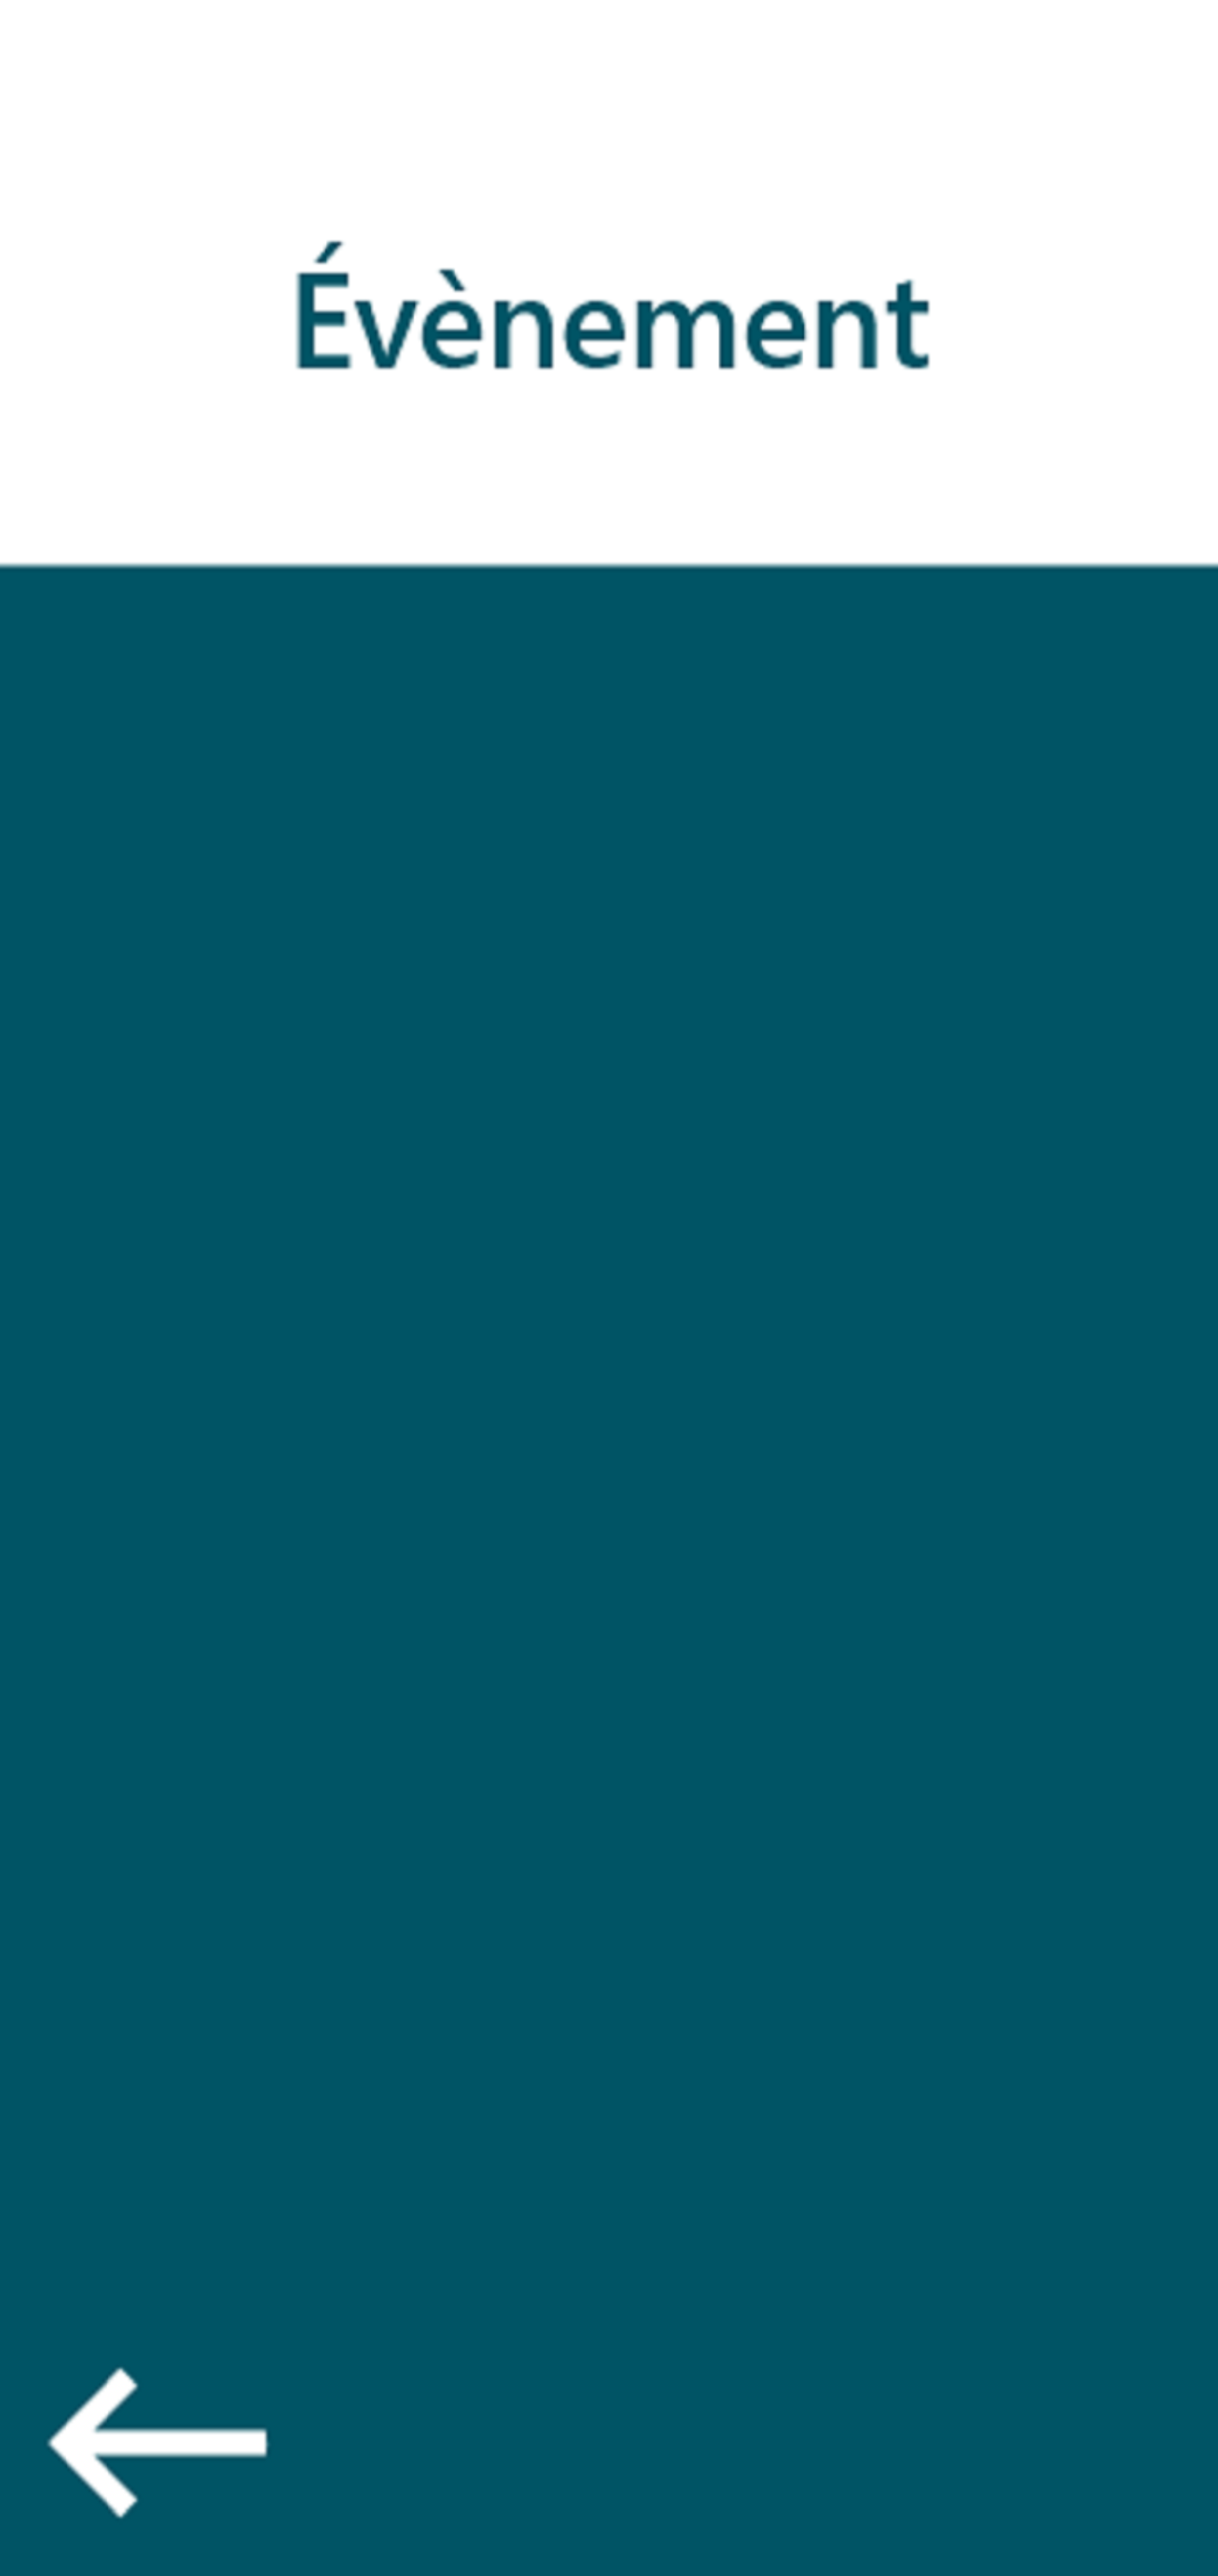
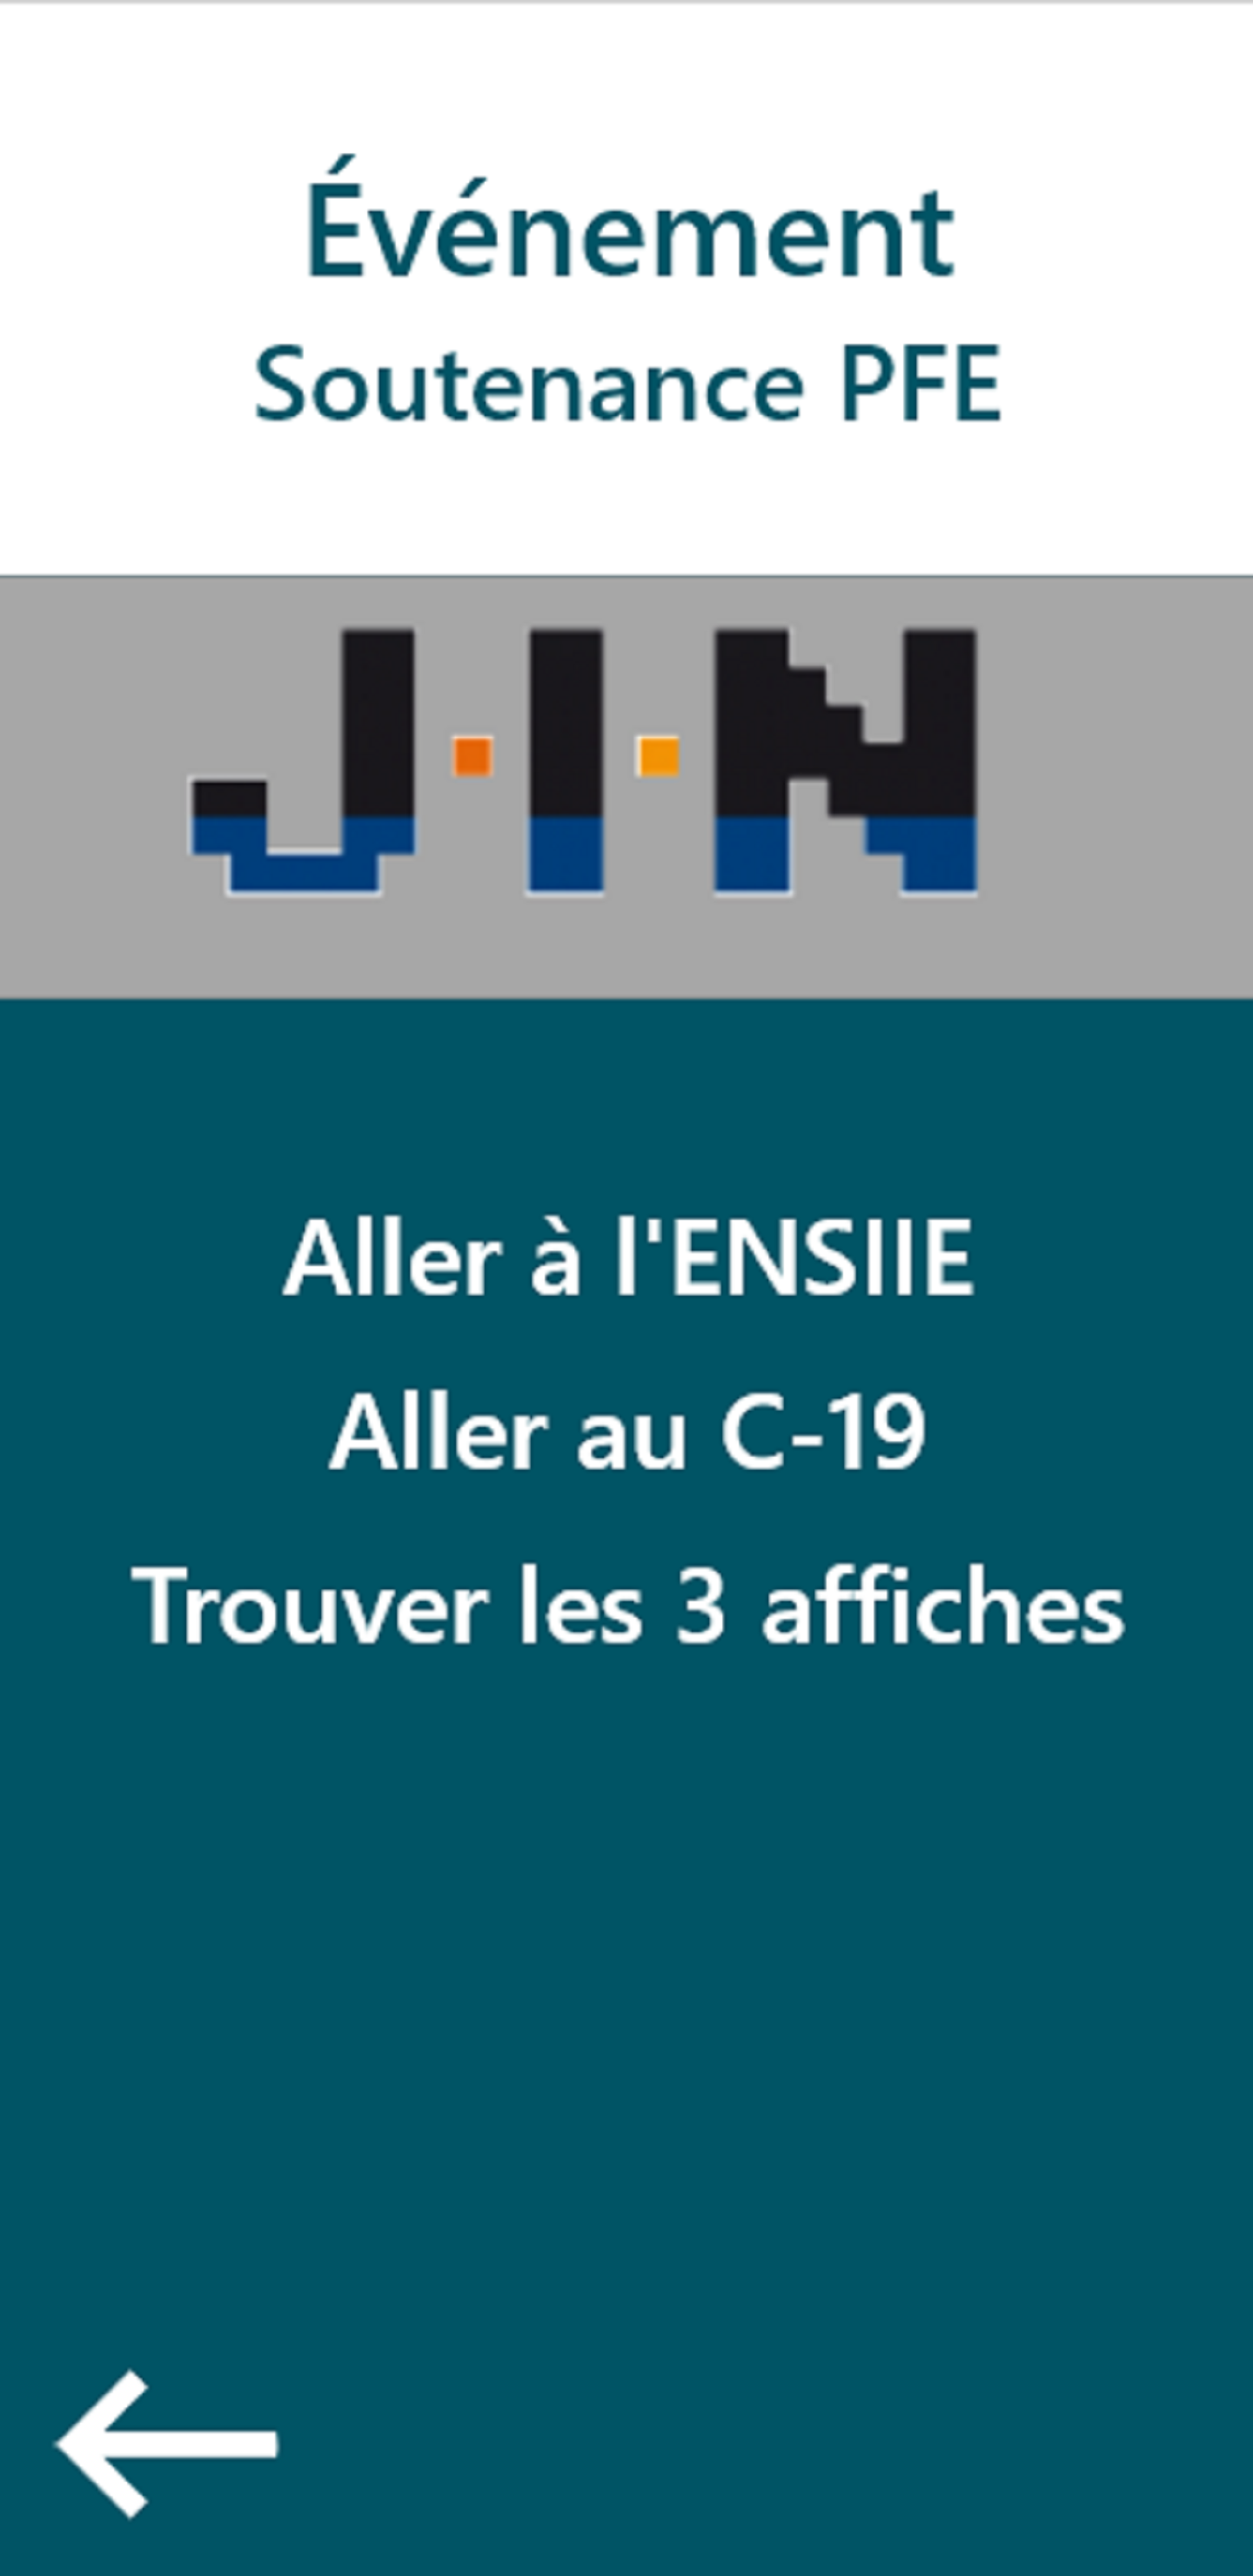
Plan detection OK (no planes/points)

diff --git a/ARCore/Assets/PFE/Scripts/Discovery_controller.cs b/ARCore/Assets/PFE/Scripts/Discovery_controller.cs
@@ -1,0 +1,156 @@
+namespace GoogleARCore.Examples.AugmentedImage
+{
+    using System.Collections.Generic;
+    using GoogleARCore;
+    using UnityEngine;
+    using UnityEngine.UI;
+    using UnityEngine.SceneManagement;
+
+
+    /// <summary>
+    /// Controls the HelloAR example.
+    /// </summary>
+    public class Discovery_controller : MonoBehaviour
+    {
+        /// <summary>
+        /// The first-person camera being used to render the passthrough camera image (i.e. AR background).
+        /// </summary>
+        public Camera FirstPersonCamera;
+
+        /// <summary>
+        /// A list to hold all planes ARCore is tracking in the current frame. This object is used across
+        /// the application to avoid per-frame allocations.
+        /// </summary>
+        private List<DetectedPlane> m_AllPlanes = new List<DetectedPlane>();
+
+        /// <summary>
+        /// True if the app is in the process of quitting due to an ARCore connection error, otherwise false.
+        /// </summary>
+        private bool m_IsQuitting = false;
+
+        /// <summary>
+        /// A prefab for visualizing an AugmentedImage.
+        /// </summary>
+        //public Tutorial_ImageVisualizer AugmentedImageVisualizerPrefab;
+
+
+
+        private Dictionary<int, Tutorial_ImageVisualizer> m_Visualizers
+            = new Dictionary<int, Tutorial_ImageVisualizer>();
+
+        private List<AugmentedImage> m_TempAugmentedImages = new List<AugmentedImage>();
+
+
+
+        //public GameObject Bihou;
+
+        /*
+        [SerializeField]
+        GameObject UI_slides;
+        [SerializeField]
+        GameObject speechRecoPrefab;
+        */
+        [SerializeField]
+        Text notifText;
+
+
+        int timer = 0;
+
+
+        private void Start()
+        {
+            notifText.text = "En recherche de plans...";
+        }
+        public void Update()
+        {
+            _UpdateApplicationLifecycle();
+
+            // Step 1 : find a plane
+            Session.GetTrackables<DetectedPlane>(m_AllPlanes);
+            for (int i = 0; i < m_AllPlanes.Count; i++)
+            {
+                if (m_AllPlanes[i].TrackingState == TrackingState.Tracking)
+                {
+                    notifText.text = "Plans trouvés !";
+                }
+                else
+                {
+                    notifText.text = "En recherche de plans...";
+                }
+            }
+
+        }
+
+
+        /// <summary>
+        /// Check and update the application lifecycle.
+        /// </summary>
+        private void _UpdateApplicationLifecycle()
+        {
+            // Exit the app when the 'back' button is pressed.
+            if (Input.GetKey(KeyCode.Escape))
+            {
+                Application.Quit();
+            }
+
+            // Only allow the screen to sleep when not tracking.
+            if (Session.Status != SessionStatus.Tracking)
+            {
+                const int lostTrackingSleepTimeout = 15;
+                Screen.sleepTimeout = lostTrackingSleepTimeout;
+            }
+            else
+            {
+                Screen.sleepTimeout = SleepTimeout.NeverSleep;
+            }
+
+            if (m_IsQuitting)
+            {
+                return;
+            }
+
+            // Quit if ARCore was unable to connect and give Unity some time for the toast to appear.
+            if (Session.Status == SessionStatus.ErrorPermissionNotGranted)
+            {
+                _ShowAndroidToastMessage("Camera permission is needed to run this application.");
+                m_IsQuitting = true;
+                Invoke("_DoQuit", 0.5f);
+            }
+            else if (Session.Status.IsError())
+            {
+                _ShowAndroidToastMessage("ARCore encountered a problem connecting.  Please start the app again.");
+                m_IsQuitting = true;
+                Invoke("_DoQuit", 0.5f);
+            }
+        }
+
+        /// <summary>
+        /// Actually quit the application.
+        /// </summary>
+        private void _DoQuit()
+        {
+            Application.Quit();
+        }
+
+        /// <summary>
+        /// Show an Android toast message.
+        /// </summary>
+        /// <param name="message">Message string to show in the toast.</param>
+        private void _ShowAndroidToastMessage(string message)
+        {
+            AndroidJavaClass unityPlayer = new AndroidJavaClass("com.unity3d.player.UnityPlayer");
+            AndroidJavaObject unityActivity = unityPlayer.GetStatic<AndroidJavaObject>("currentActivity");
+
+            if (unityActivity != null)
+            {
+                AndroidJavaClass toastClass = new AndroidJavaClass("android.widget.Toast");
+                unityActivity.Call("runOnUiThread", new AndroidJavaRunnable(() =>
+                {
+                    AndroidJavaObject toastObject = toastClass.CallStatic<AndroidJavaObject>("makeText", unityActivity,
+                        message, 0);
+                    toastObject.Call("show");
+                }));
+            }
+        }
+    }
+}
